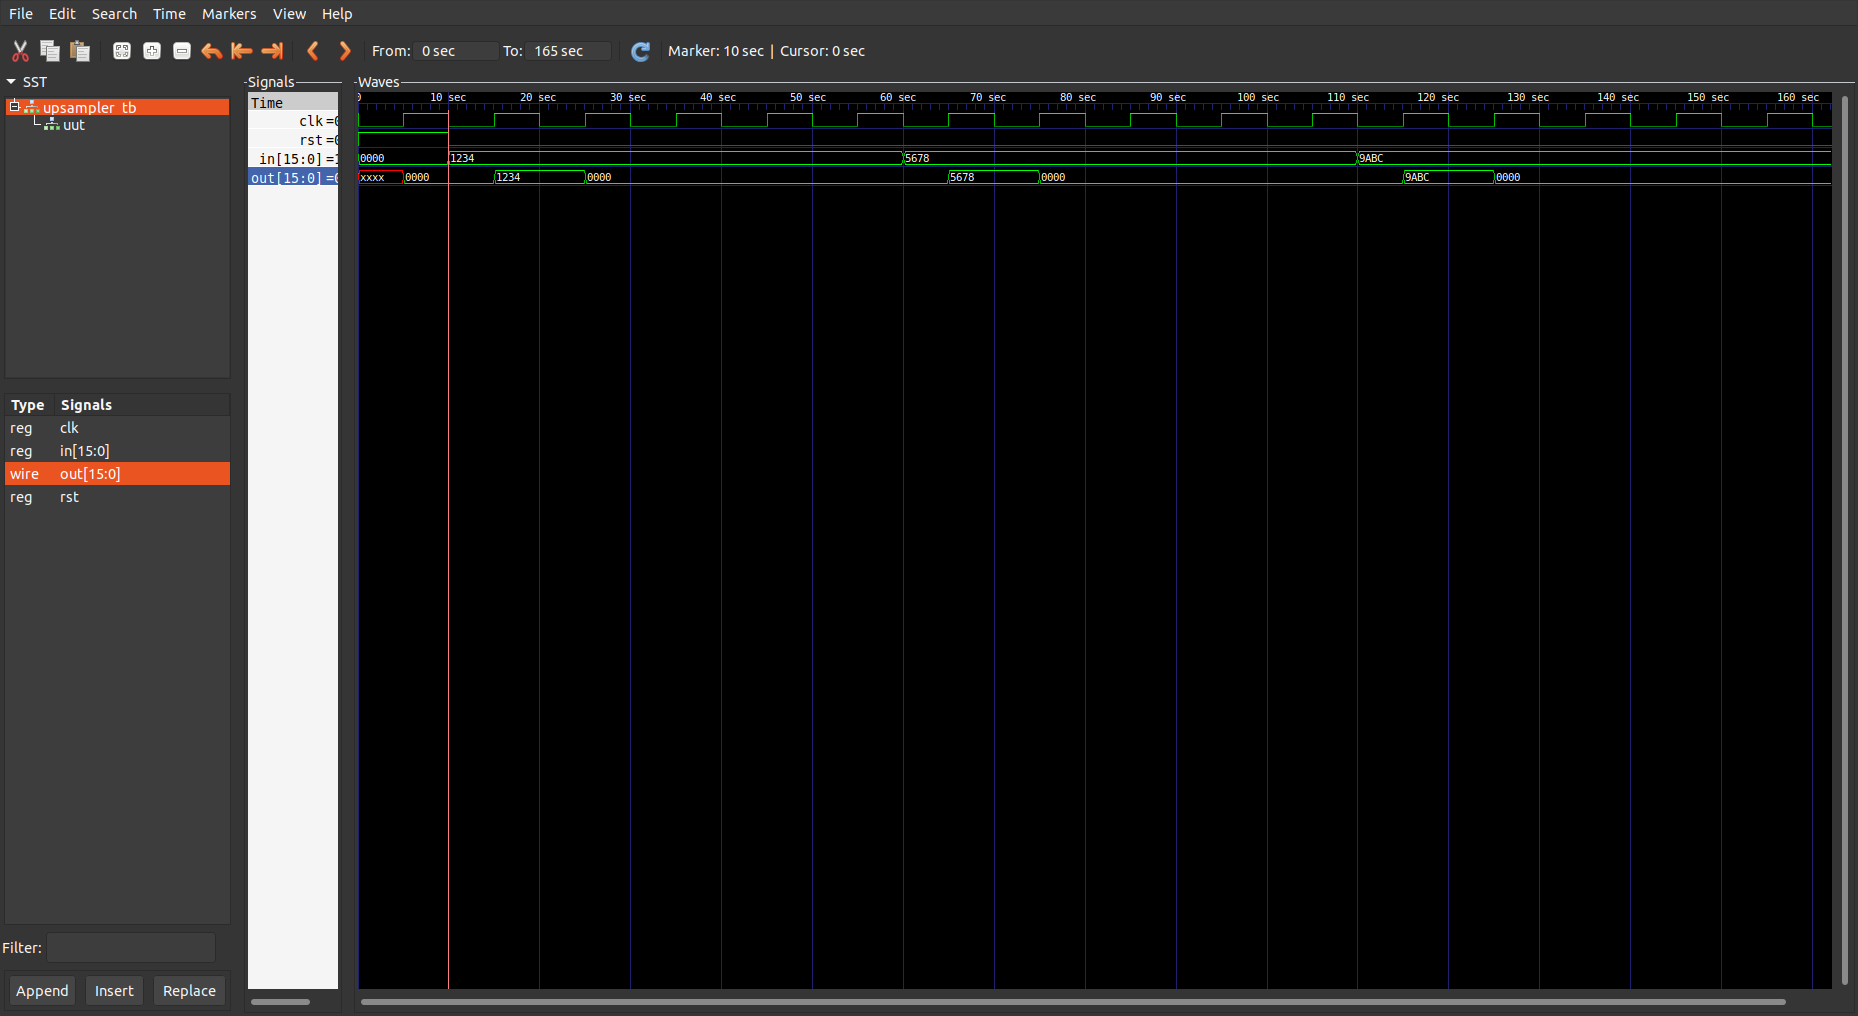
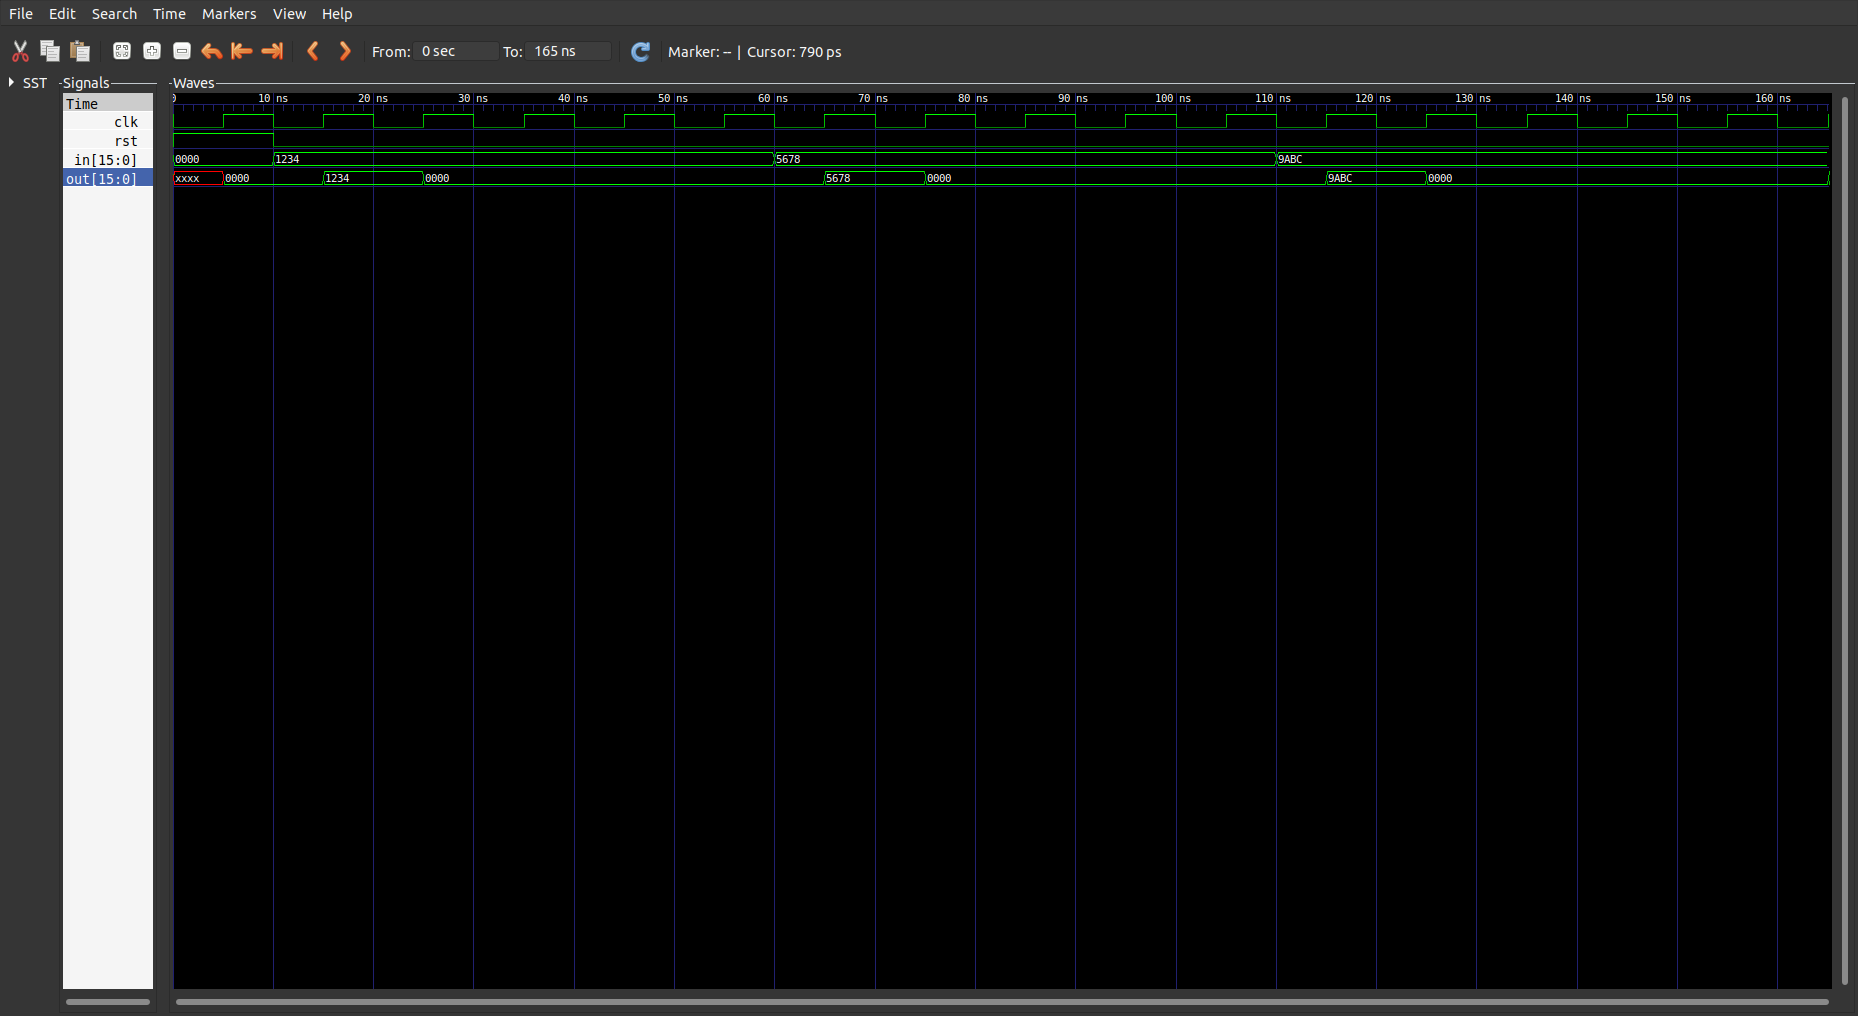
Updated documentation of main README and upsampling_doc

Changed region(s): [[0.0, 0.061, 0.9989, 1.0], [0.3746, 0.0305, 0.4682, 0.061], [0.9677, 0.9764, 0.9989, 1.0]]

diff --git a/upsampler/upsampler_doc.md b/upsampler/upsampler_doc.md
@@ -25,4 +25,7 @@ The diagram given below shows the architecture for a 5-fold upsampler for 4-bit 
 3. There exist an internal and an external reset mechanism. The internal reset mechanism ensures that the counter can take only values between $0$ and $L-1$. However, an external reset signal ($RST$) has been exposed, which bypasses the internal reset condition, which sets the counter value to 0, and instead sets it to $L_2L_1L_0$ (which represents $L-1$). Hence when $RST$ is asserted, the output always remains $0$. When the reset is lifted, at the immediate next triggering edge, the value of input $X$ gets buffered into the M-bit register and simultaneously appears at the output as the counter value gets reset to $0$ by the internal reset mechanism. Hence, there only exists at most a single cycle delay between the input signal and the downsampled output signal, which is an unavoidable consequence of buffering the input. Instead, if the external reset state were to be set to $0$, the previous value of the M-bit input buffer register would be outputted always, for how many ever cycles the input was asserted. This would mean that at the first instance, garbage values stored in the register at startup, would appear as the output, which is undesirable. It would also mean, that the valid input $X$ needs to be passed when $RST$ is asserted, which defeats the purpose of a clean reset.
    
 ## Simulation Results
+This the GTKWave waveforms simulation for the latest commit of the testbench. The input/output word bus-width ($W$) is 16-bits, whereas the upsampling factor ($L$) is 5, matching that shown in the circuit, with the only difference being $W$.
+
+The input $in[15:0]$ is toggled/changed at every non-triggering, negative edge of the clock, thus causing the initial delay of half a clock period ($5 \,n s$).
 ![5-Fold Upsampler](upsampler_L5.png)

diff --git a/README.md b/README.md
@@ -1,2 +1,19 @@
 # dsp
 This repository contains the description and implementation of various DSP circuits, written in Matlab and Verilog HDL, based on the coursework of DSP-II (EC31202) 
+
+## Contents
+1. Upsampler
+
+## Documentation
+1. [Upsampler](upsampler/upsampler_doc.md)
+
+## Requirements
+1. [iverilog](https://iverilog.fandom.com/wiki/Icarus_Verilog) for compiling the testbenches and generating the waveform files
+2. [GTKWave](https://gtkwave.sourceforge.net/) for viewing the waveforms
+
+## Roadmap
+- [x] Upsampler Design and Simulation
+- [ ] Downsampler Design and Simulation
+- [ ] FPGA Implementation of the upsampler and downsampler designs
+
+
